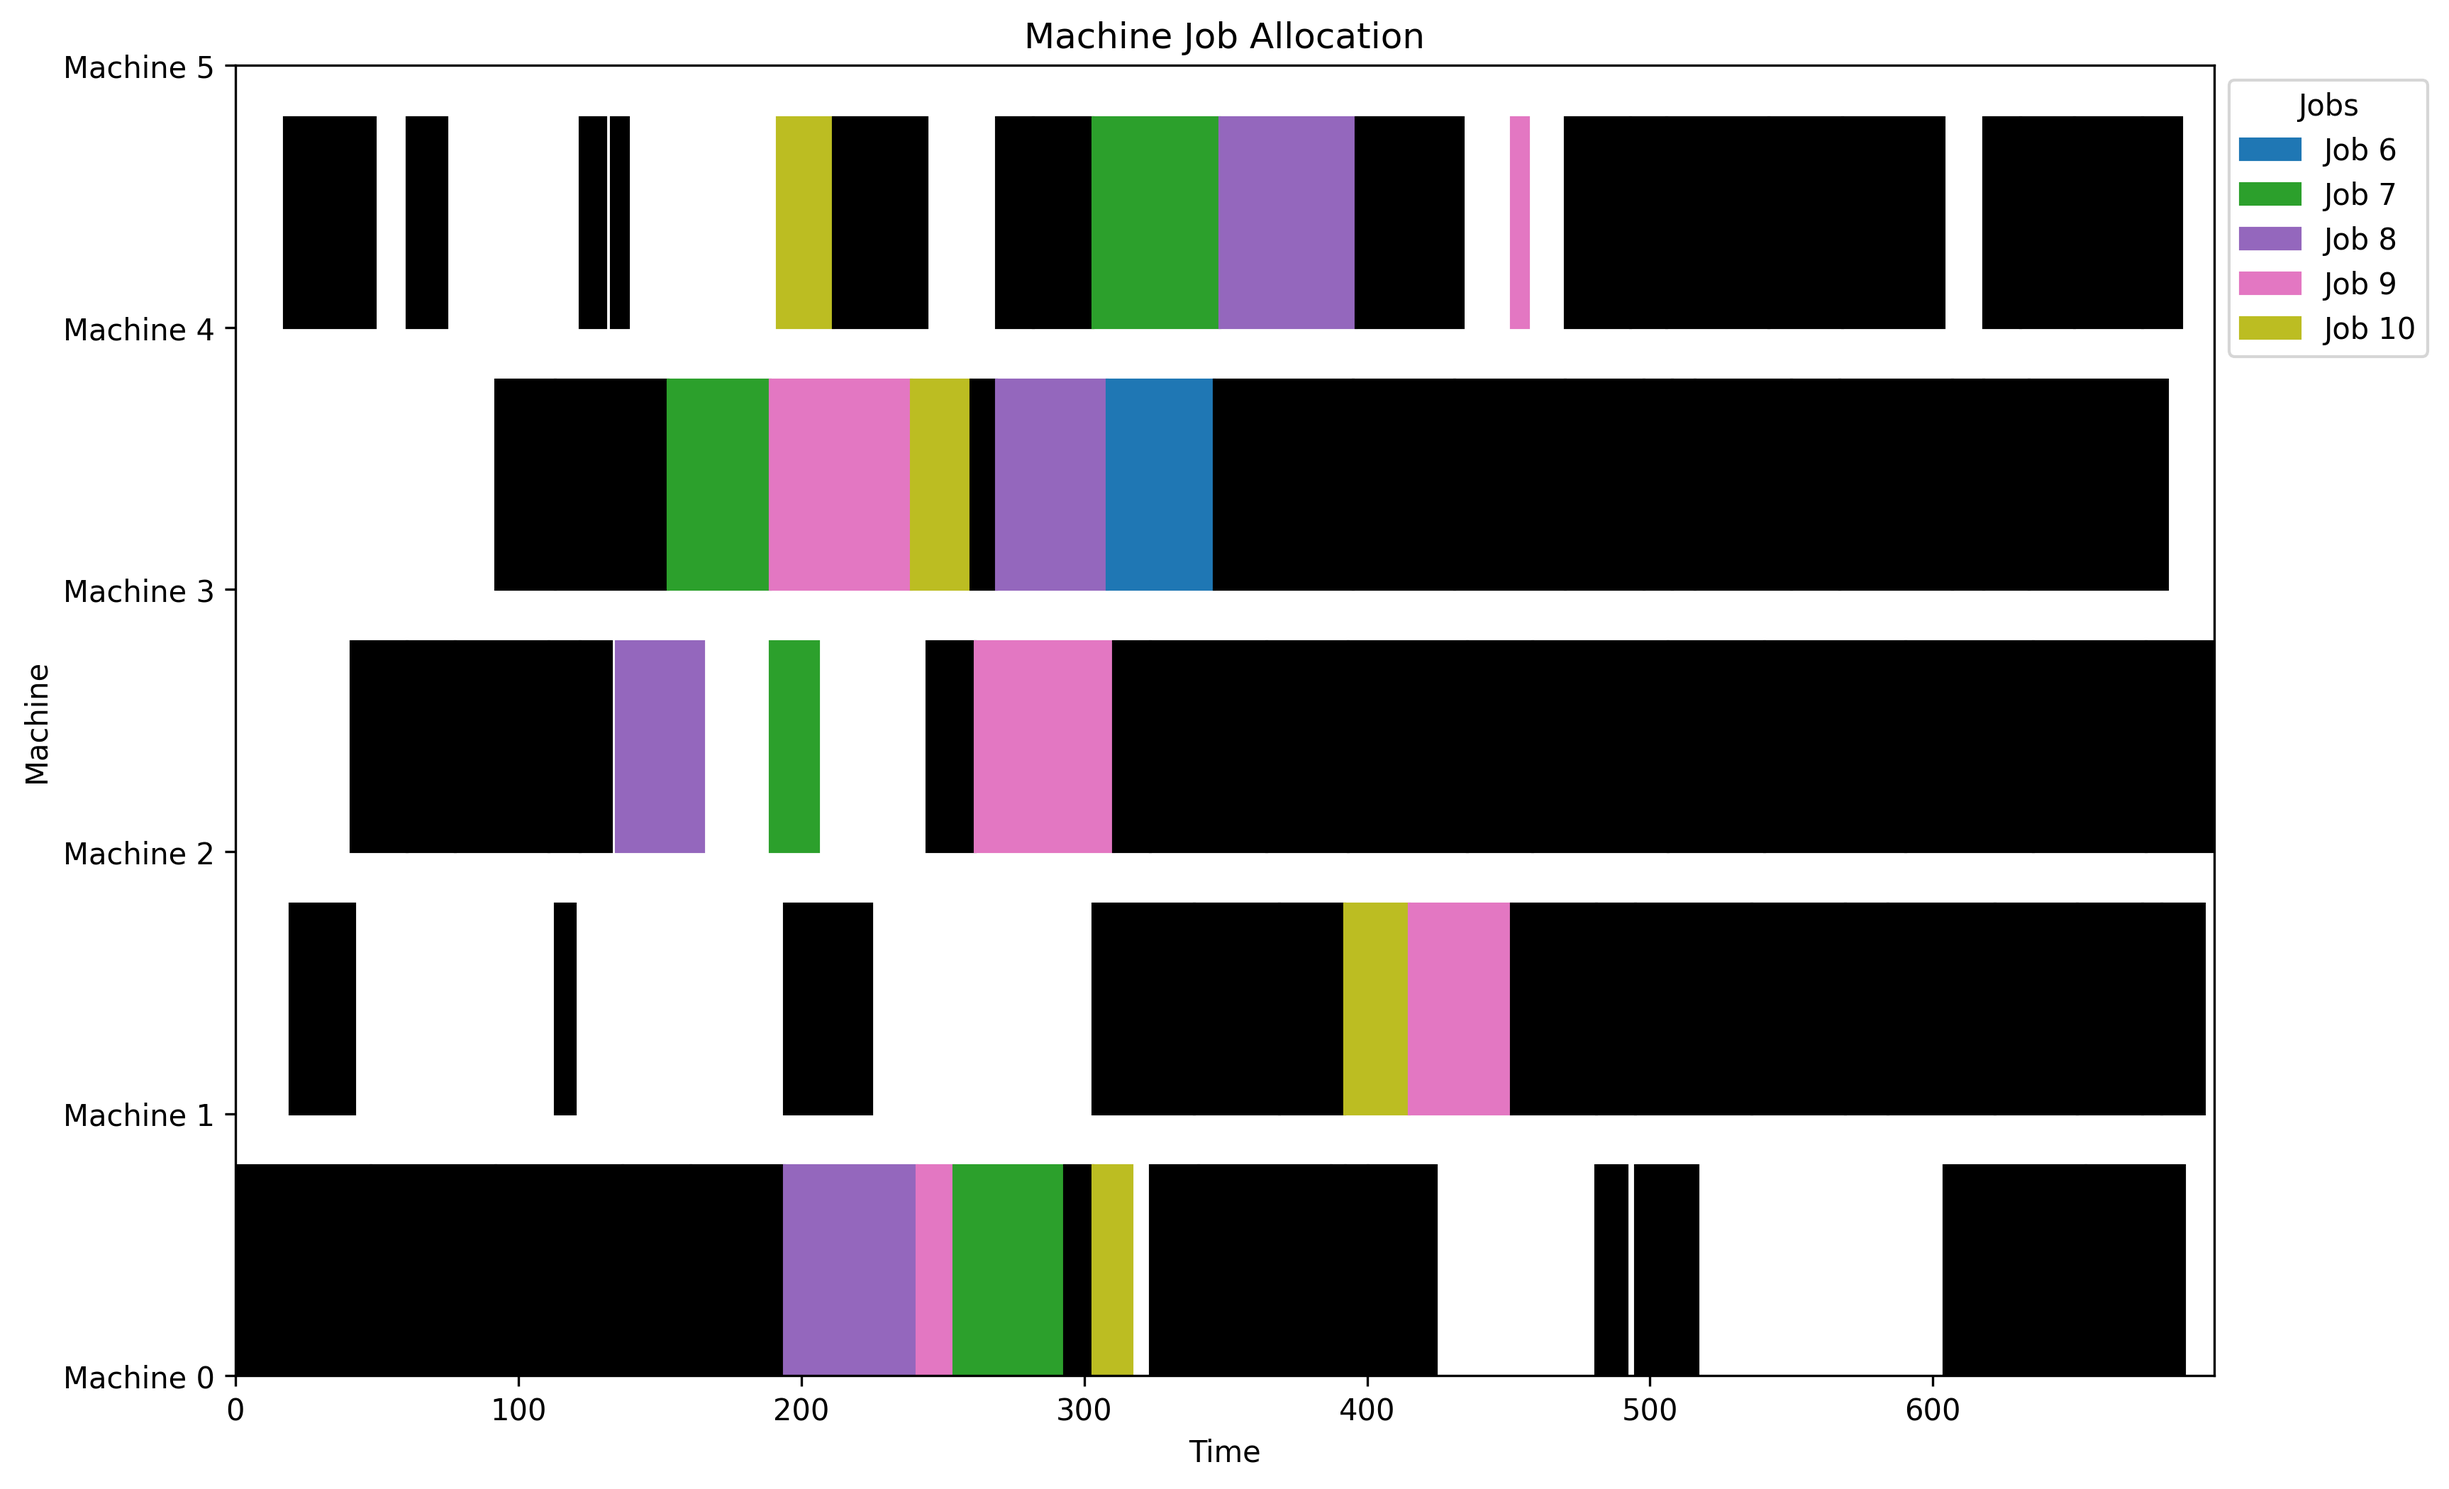
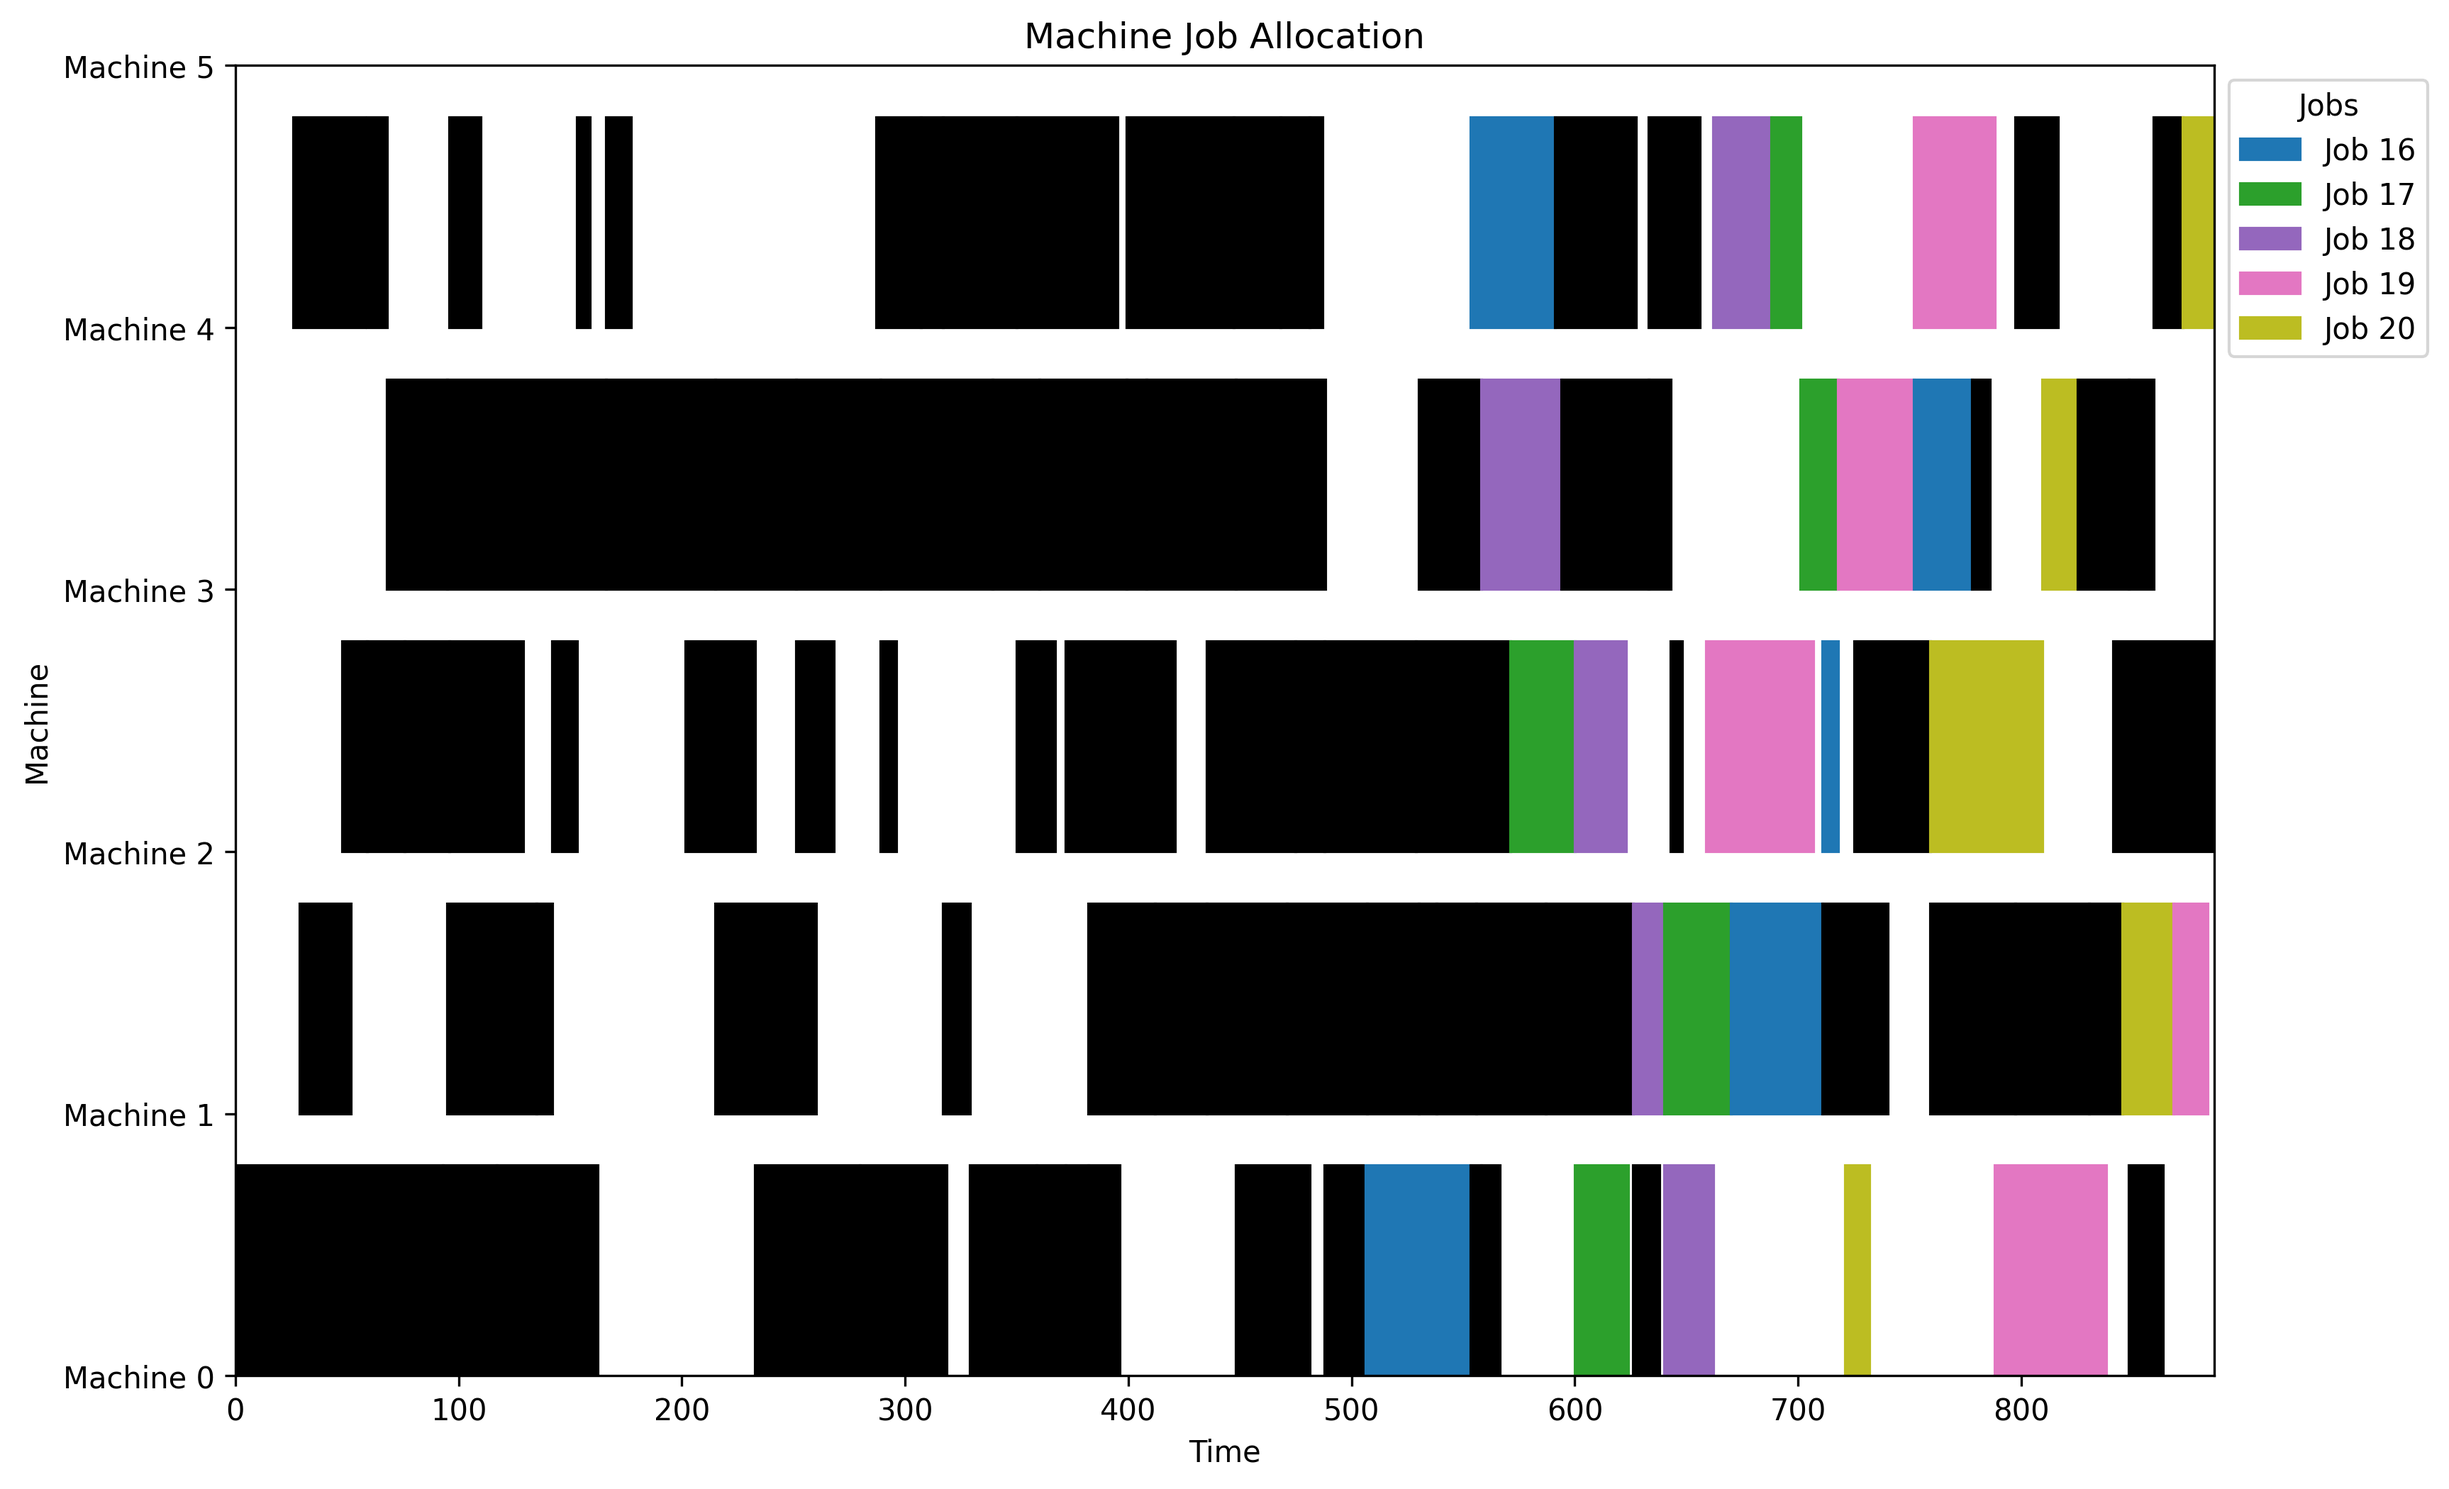
fix: performance measures logic
I fix the logic of the part that calculate performance measures. In this version, the set up of the experiment would more likely to fit our expectation.

diff --git a/simulation.py b/simulation.py
@@ -252,9 +252,16 @@ def simulation(number_machines, number_jobs, warm_up, func, due_date_tightness, 
     TRNO += number_operations
     SPT += processing_time
 
+    finish_signal = False # 結束訊號
     # start simulation  |  loop until stopping criterion is met
-    while len(jobs_finished) < number_jobs:
-
+    while not finish_signal:
+        # 檢查jobs_finished列表是否包含所有目標作業
+        for i in range(warm_up + 1, number_jobs + 1):
+            if i not in [j.number for j in jobs_finished]:
+                break
+            elif i == number_jobs:
+                finish_signal = True
+                break
         # check if there are operations to be released on each job
         for j in jobs_var:
             if j.clock <= global_clock and j.release_status == 'yes':
@@ -307,15 +314,12 @@ def simulation(number_machines, number_jobs, warm_up, func, due_date_tightness, 
         for j in jobs_var:
             if j.clock <= global_clock:
                 j.clock = global_clock
-    # simulation terminate
-    
+    # simulation terminated
+
     # calculate performance measures
-    makespan = 0
-    for i in schedule:
-        if i["job"] > warm_up and i["job"] <= number_jobs:
-            makespan = max(makespan, i["end"])
-    mean_flowtime = mean([(j.end - j.release_time) for j in jobs_finished[warm_up:]])
-    max_flowtime = max([(j.end - j.release_time) for j in jobs_finished[warm_up:]])
+    makespan = max([jobs[j].end for j in range(warm_up, number_jobs)]) - jobs[warm_up].release_time
+    mean_flowtime = mean([(jobs[j].end - jobs[j].release_time) for j in range(warm_up, number_jobs)])
+    max_flowtime = max([(jobs[j].end - jobs[j].release_time) for j in range(warm_up, number_jobs)])
     # max_tardiness = max([max((j.end - j.DD), 0) for j in jobs_finished[warm_up:]])
     # mean_tardiness = mean([max((j.end - j.DD), 0) for j in jobs_finished[warm_up:]])
     # waiting_time = np.sum((j.end-j.start) for j in jobs_finished[warm_up:])
@@ -324,7 +328,7 @@ def simulation(number_machines, number_jobs, warm_up, func, due_date_tightness, 
 
     if __name__ == "__main__":
         cmap = colormaps["tab20"]
-        colors = [cmap(i / (len(jobs_finished) - config.WARM_UP)) for i in range(len(jobs_finished) - config.WARM_UP)]
+        colors = [cmap(i / (number_jobs - warm_up)) for i in range(number_jobs - warm_up)]
         fig, ax = plt.subplots(figsize=(12, 8))
         for idx, record in enumerate(schedule):
             machine = record["machine"]
@@ -332,13 +336,10 @@ def simulation(number_machines, number_jobs, warm_up, func, due_date_tightness, 
             operation = record["operation"]
             start = record["start"]
             end = record["end"]
-            # Just for checking the involved jobs
-            # if job > config.WARM_UP and job <= config.NUMBER_JOBS:
-            #     print(f"Machine {machine} starts job {job} operation {operation} at {start:.1f} and finishes at {end:.1f}")
             if job <= config.WARM_UP or job > config.NUMBER_JOBS: # warm_up 期間和超出工作數量的作業使用黑色
                 color = 'black'
             else: # warm_up 後的作業使用原本的顏色方案")
-                color = colors[(job - config.WARM_UP - 1) % len(colors)]
+                color = colors[(job - warm_up - 1) % len(colors)]
             ax.add_patch(mpatches.Rectangle((start, machine), end - start, 0.8, color=color, label=f"Job {job}"))
         max_time = max(record["end"] for record in schedule)
         min_time = min(record["start"] for record in schedule)
@@ -348,7 +349,7 @@ def simulation(number_machines, number_jobs, warm_up, func, due_date_tightness, 
         ax.set_xlabel("Time")
         ax.set_ylabel("Machine")
         ax.set_title("Machine Job Allocation")
-        job_labels = [f"Job {job}" for job in range(config.WARM_UP + 1, config.NUMBER_JOBS + 1)]
+        job_labels = [f"Job {job}" for job in range(warm_up + 1, number_jobs + 1)]
         sorted_labels = sorted(job_labels, key=lambda x: int(x.split()[1]))  
         handles = [mpatches.Patch(color=colors[i % len(colors)], label=label) for i, label in enumerate(sorted_labels)]
         ax.legend(handles=handles,loc="upper left",bbox_to_anchor=(1, 1),title="Jobs")

diff --git a/config.py b/config.py
@@ -11,10 +11,10 @@ OBJECTIVE = "MEAN-FLOWTIME"
 
 # General parameters
 NUMBER_MACHINES = 5  # 機器數量
-NUMBER_JOBS = 10  # 工作數量 (其中包含warm-up的工作數量)
-WARM_UP = 5  # 熱身階段的工作數量
+NUMBER_JOBS = 20  # 工作數量 (其中包含warm-up的工作數量)
+WARM_UP = 15  # 熱身階段的工作數量
 DUE_DATE_TIGHTNESS = 4  # 交期緊迫度
-UTILIZATION = 0.90  # 設備利用率
+UTILIZATION = 0.60  # 設備利用率
 MISSING_OPERATION = False  # 是否允許缺少操作
 MEAN_PROCESSING_TIME = 25
 
